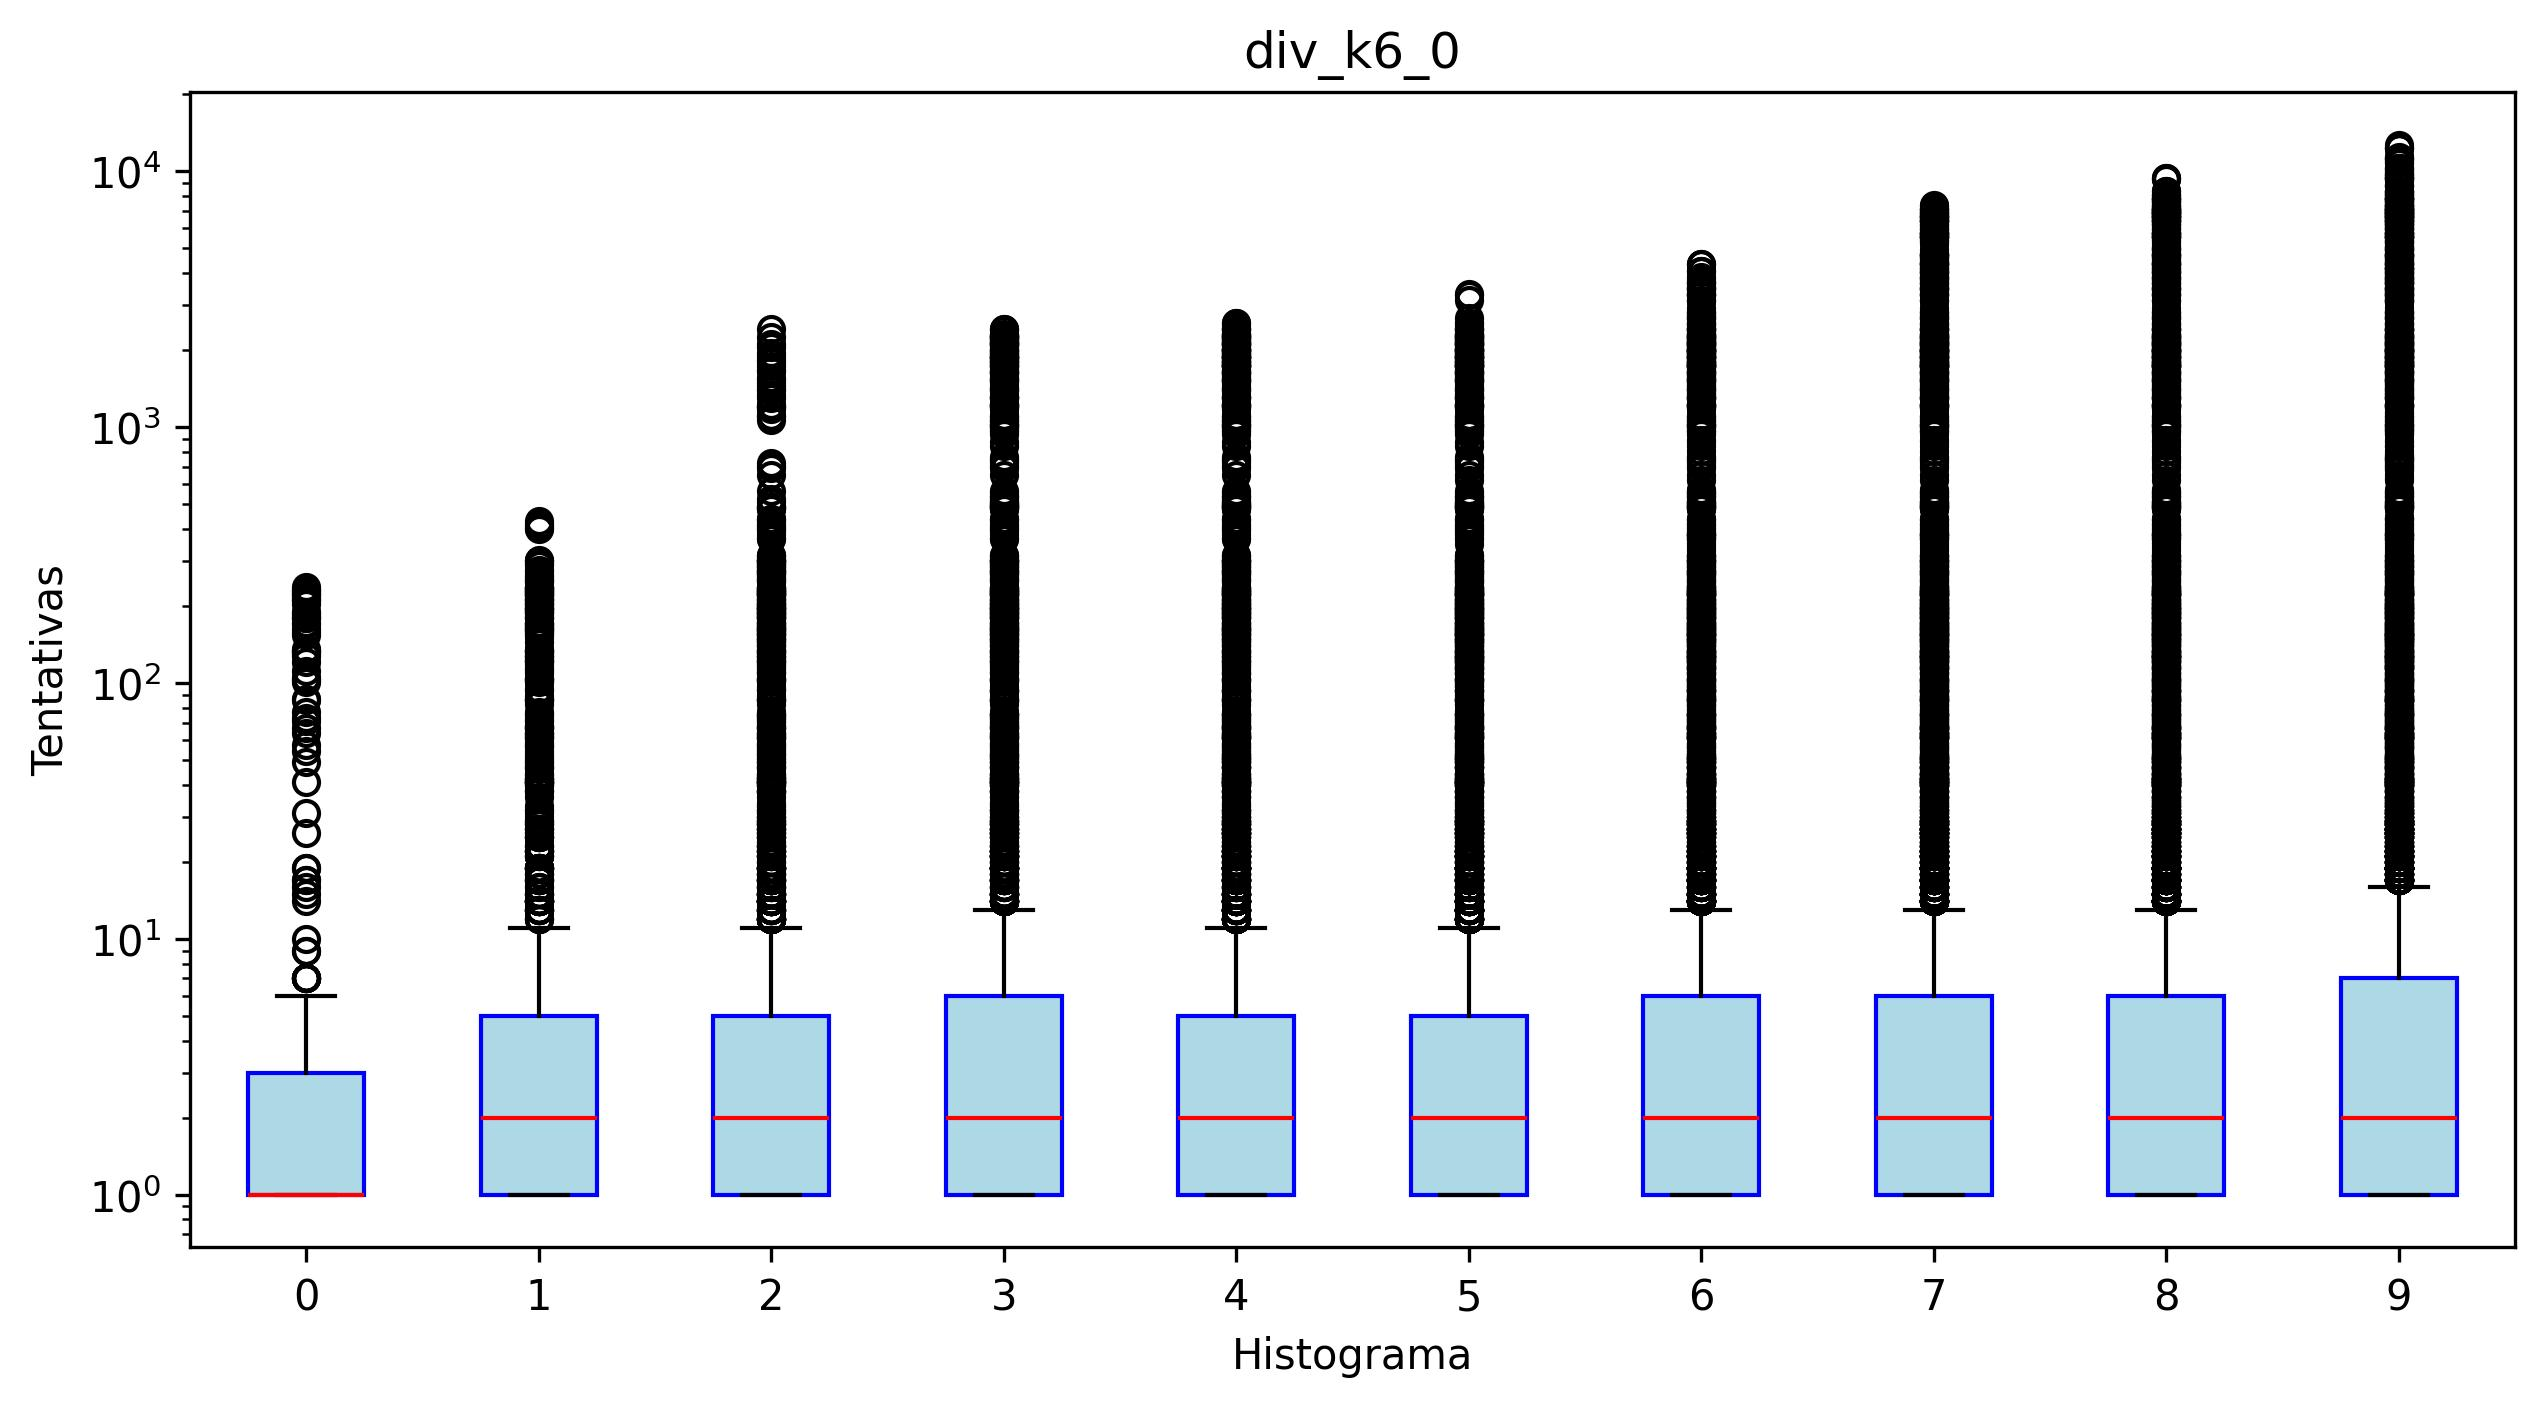
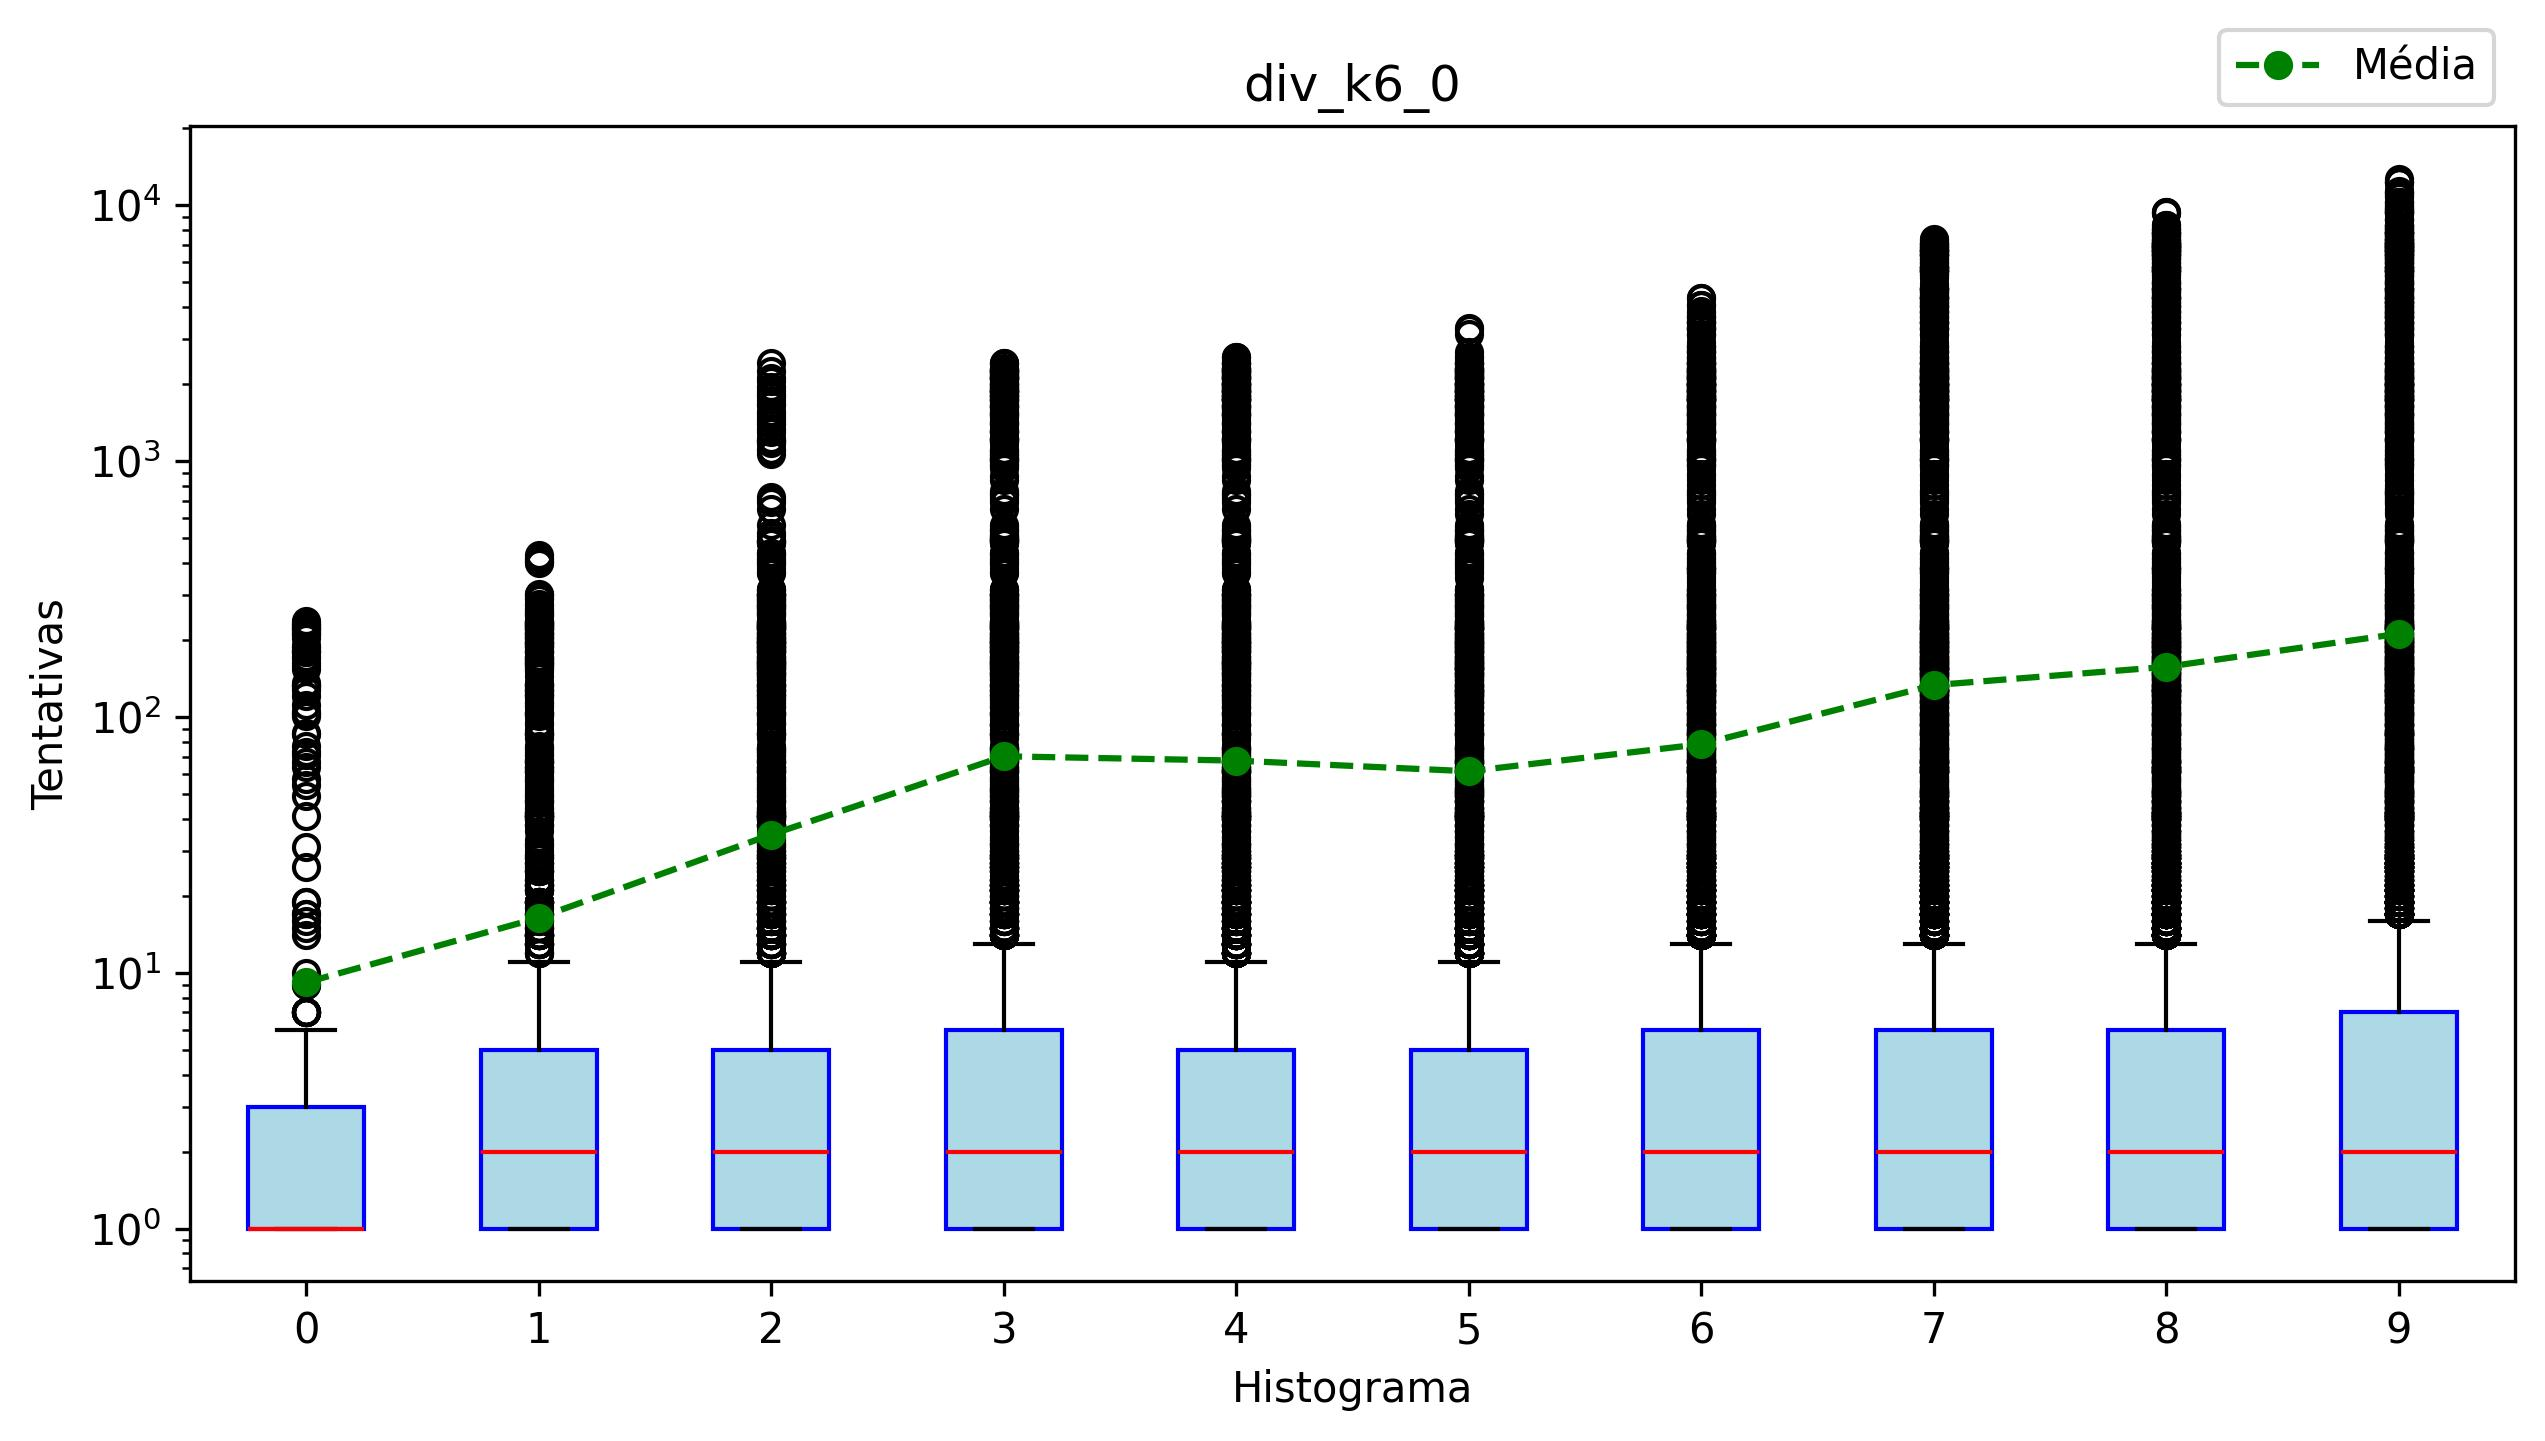
Changed the line generator to ignore lines targeted to outputs

diff --git a/ger_reports/graphs/ger_fpga_metrics.py b/ger_reports/graphs/ger_fpga_metrics.py
@@ -104,7 +104,7 @@ def draw_lines_between_cells(origins_to_dests, used_mask, heat_end, output_path,
     for origin, dests in origins_to_dests.items():
         for dest in dests:
             dy, dx = divmod(dest, n)
-            if dy == 0 or dx == 0 or (dy == n-1) or (dx == n-1):
+            if dy == 0 or dx == 0 or (dy == n - 1) or (dx == n - 1):
                 continue
             tries = heat_end[dy, dx]
             if tries > threshold:
@@ -116,7 +116,7 @@ def draw_lines_between_cells(origins_to_dests, used_mask, heat_end, output_path,
     for origin, dests in origins_to_dests.items():
         for dest in dests:
             dy, dx = divmod(dest, n)
-            if dy == 0 or dx == 0 or dy == n-1 or dx == n-1:
+            if dy == 0 or dx == 0 or dy == n - 1 or dx == n - 1:
                 continue
             tries = heat_end[dy, dx]
             if tries > threshold:
@@ -169,12 +169,26 @@ def plot_boxplots(hist_list, output_prefix, folder_path):
                boxprops=dict(facecolor='lightblue', color='blue'),
                medianprops=dict(color='red'))
 
+    '''for i, data in enumerate(data_for_boxplot):
+        if not data:
+            continue
+        mean_val = np.mean(data)
+        ax.plot([i + 1 - 0.3, i + 1 + 0.3], [mean_val, mean_val], color='green', linestyle='--', linewidth=1)'''
+
+    means = [np.mean(data) if data else 0 for data in data_for_boxplot]
+    x = range(1, len(means) + 1)
+    ax.plot(x, means, color='green', linestyle='--', marker='o', label='Média')
+    ax.legend()
+
     ax.set_title(f"{output_prefix}")
     ax.set_xlabel("Histograma")
     ax.set_ylabel("Tentativas")
     ax.set_yscale("log")
     ax.set_xticks(range(1, len(data_for_boxplot) + 1))
     ax.set_xticklabels([str(i) for i in range(len(data_for_boxplot))])
+
+    #ax.axhline(mean_val, color='green', linestyle='--', linewidth=1, label=f'Média: {mean_val:.2f}')
+    ax.legend(loc='lower right',bbox_to_anchor=(1, 1))
 
     output_file = os.path.join(folder_path, f"{output_prefix}_Boxplots.jpg")
     plt.savefig(output_file, bbox_inches="tight", dpi=300)
@@ -204,20 +218,20 @@ def process_json_metrics(folder_path):
 
         # Plot heatEnd com máscara
         output2 = os.path.join(folder_path, base_name + "_End.jpg")
-        #plot_heatmap_with_used_mask(heat_end, used_mask, output2, base_name + " Custo de Destino", "Tentativas")
+        # plot_heatmap_with_used_mask(heat_end, used_mask, output2, base_name + " Custo de Destino", "Tentativas")
 
         # Plot heatBegin com máscara
         output1 = os.path.join(folder_path, base_name + "_Begin.jpg")
-        #plot_heatmap_with_used_mask(heat_begin, used_mask, output1, base_name + " Pontos de Origem", "Posicionamentos")
+        # plot_heatmap_with_used_mask(heat_begin, used_mask, output1, base_name + " Pontos de Origem", "Posicionamentos")
 
         origins_to_dests = {int(k): v for k, v in data["orDest"].items()}
         output3 = os.path.join(folder_path, base_name + "_Lines.jpg")
-        draw_lines_between_cells(origins_to_dests, used_mask, heat_end, output3, base_name,
-                                 "Origens e Destinos com Linhas")
+        #draw_lines_between_cells(origins_to_dests, used_mask, heat_end, output3, base_name,
+        #                         "Origens e Destinos com Linhas")
 
         hist_list = list(data["hist"].values())
-        #plot_histograms(hist_list, base_name, folder_path, base_name)
-        #plot_boxplots(hist_list, base_name, folder_path)
+        # plot_histograms(hist_list, base_name, folder_path, base_name)
+        plot_boxplots(hist_list, base_name, folder_path)
 
 
 '''if __name__ == "__main__":
